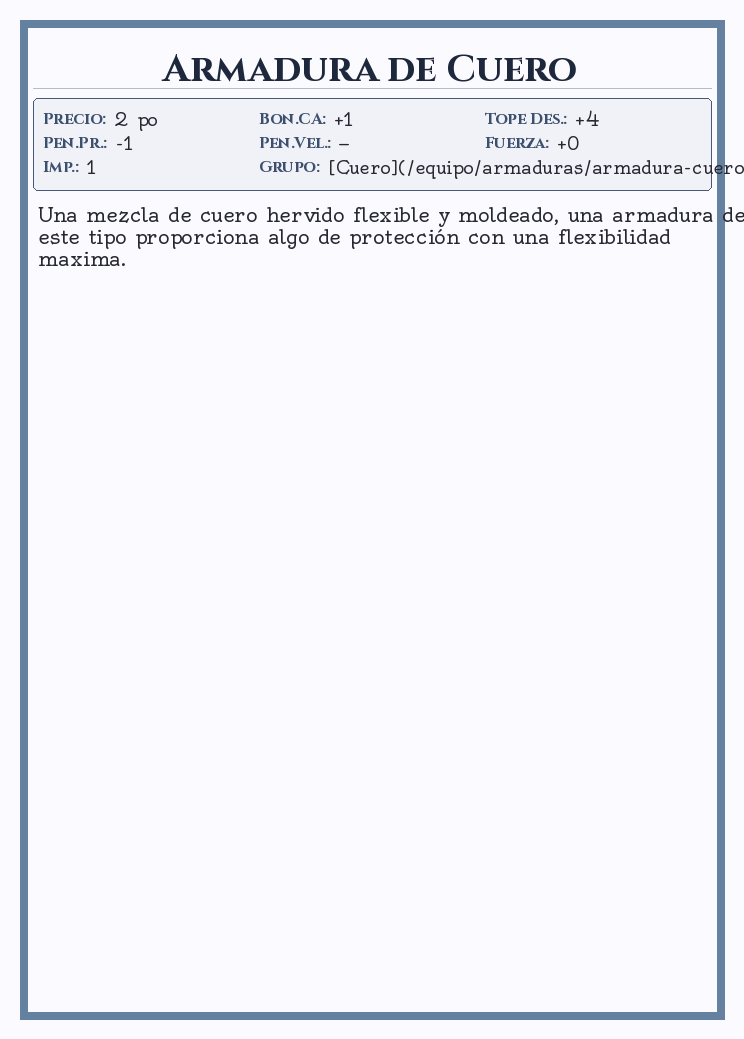
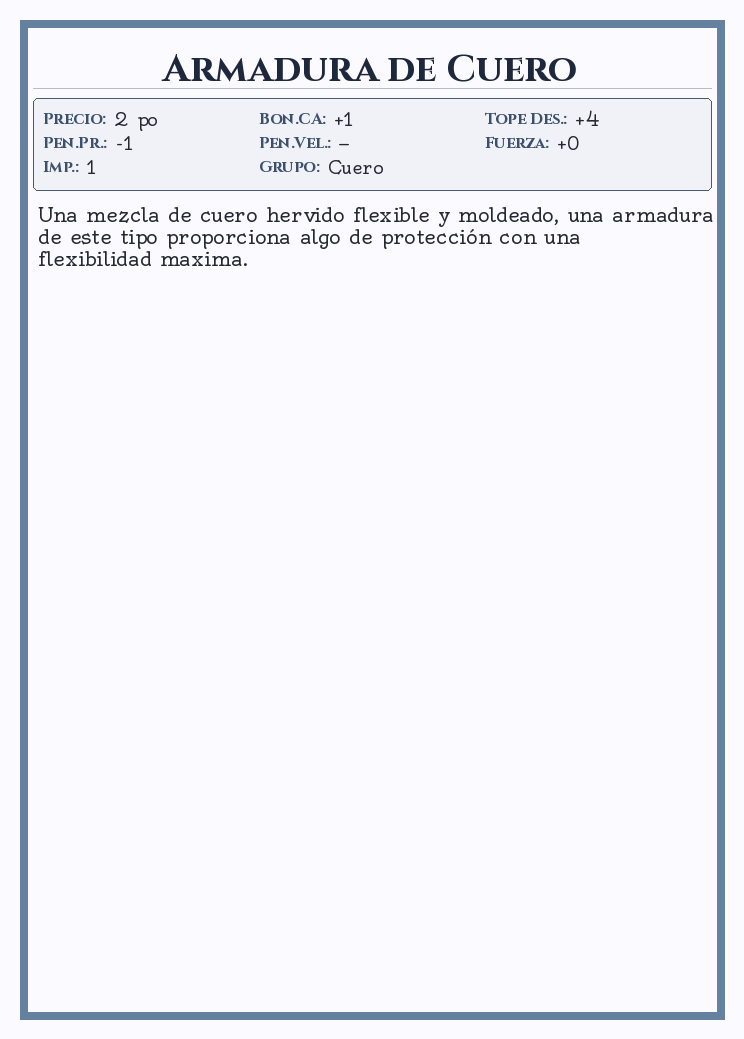
Mejorar cartas de armaduras y corregir datos
- Corregir links en campo Grupo de 3 armaduras de cuero
- Ajustar colores de rasgos para coincidir con estilo de armas
- Mejorar cálculo de ancho de línea en descripciones
- Regenerar 12 cartas de armaduras

Changed region(s): [[0.0618, 0.2156, 0.8965, 0.2772], [0.4328, 0.154, 1.0, 0.2156]]

diff --git a/tools/armorCardCreator/generate_armor_cards.py b/tools/armorCardCreator/generate_armor_cards.py
@@ -30,15 +30,15 @@ LABEL_FONT_SIZE = 16
 SMALL_FONT_SIZE = 14
 TRAIT_DESC_FONT_SIZE = 20
 
-# Colors - armor themed (blue/steel)
+# Colors - armor themed (blue/steel) with weapon-style traits
 COLOR_BG = (250, 250, 255)
 COLOR_BORDER = (70, 90, 120)  # Steel blue for armor
 COLOR_BORDER_HEAVY = (50, 60, 80)  # Darker for heavy armor
 COLOR_BORDER_LIGHT = (100, 130, 160)  # Lighter for light armor
 COLOR_TITLE = (30, 40, 60)
 COLOR_TEXT = (40, 40, 50)
-COLOR_TRAIT_BG = (70, 90, 120)
-COLOR_TRAIT_TEXT = (255, 255, 255)
+COLOR_TRAIT_BG = (93, 48, 48)           # Darker red for traits (like weapons)
+COLOR_TRAIT_TEXT = (218, 165, 32)       # Gold text on traits (like weapons)
 COLOR_SEPARATOR = (180, 190, 200)
 COLOR_STAT_BG = (240, 242, 248)
 COLOR_LABEL = (60, 80, 110)
@@ -272,12 +272,16 @@ def draw_description(draw, text, y, max_width, font_size=None):
     font = get_font(font_size)
     x = SAFE_ZONE + BORDER_WIDTH + 10
 
-    # Calculate available width
+    # Calculate available width in pixels
     available_width = CARD_WIDTH - (2 * SAFE_ZONE) - (2 * BORDER_WIDTH) - 20
 
-    # Wrap text
-    avg_char_width = font_size * 0.5
-    chars_per_line = int(available_width / avg_char_width)
+    # Use a more representative test string for Spanish text
+    test_text = "Este tipo de armadura es una cota de malla"
+    bbox = draw.textbbox((0, 0), test_text, font=font)
+    test_width = bbox[2] - bbox[0]
+    chars_per_line = int((available_width / test_width) * len(test_text))
+
+    # Wrap text properly
     wrapped = textwrap.wrap(text, width=chars_per_line)
 
     # Draw each line

diff --git a/docs/_equipo/armaduras/armadura-pieles.md b/docs/_equipo/armaduras/armadura-pieles.md
@@ -14,7 +14,7 @@ source: PC1
 
 ---
 
-**Bon. CA** +3; **Tope Des.** +2; **Pen. pruebas** -2; **Pen. Velocidad** -5 pies (1,5 m); **Fuerza** +2; **Impedimenta** 2; **Grupo** [Cuero](/equipo/armaduras/armadura-cuero/); **Categoría** Armadura intermedia
+**Bon. CA** +3; **Tope Des.** +2; **Pen. pruebas** -2; **Pen. Velocidad** -5 pies (1,5 m); **Fuerza** +2; **Impedimenta** 2; **Grupo** Cuero; **Categoría** Armadura intermedia
 
 ---
 

diff --git a/docs/_equipo/armaduras/armadura-cuero-tachonado.md b/docs/_equipo/armaduras/armadura-cuero-tachonado.md
@@ -14,7 +14,7 @@ source: PC1
 
 ---
 
-**Bon. CA** +2; **Tope Des.** +3; **Pen. pruebas** -1; **Fuerza** +1; **Impedimenta** 1; **Grupo** [Cuero](/equipo/armaduras/armadura-cuero/); **Categoría** Armadura ligera
+**Bon. CA** +2; **Tope Des.** +3; **Pen. pruebas** -1; **Fuerza** +1; **Impedimenta** 1; **Grupo** Cuero; **Categoría** Armadura ligera
 
 ---
 

diff --git a/docs/_equipo/armaduras/armadura-cuero.md b/docs/_equipo/armaduras/armadura-cuero.md
@@ -14,7 +14,7 @@ source: PC1
 
 ---
 
-**Bon. CA** +1; **Tope Des.** +4; **Pen. pruebas** -1; **Fuerza** +0; **Impedimenta** 1; **Grupo** [Cuero](/equipo/armaduras/armadura-cuero/); **Categoría** Armadura ligera
+**Bon. CA** +1; **Tope Des.** +4; **Pen. pruebas** -1; **Fuerza** +0; **Impedimenta** 1; **Grupo** Cuero; **Categoría** Armadura ligera
 
 ---
 
